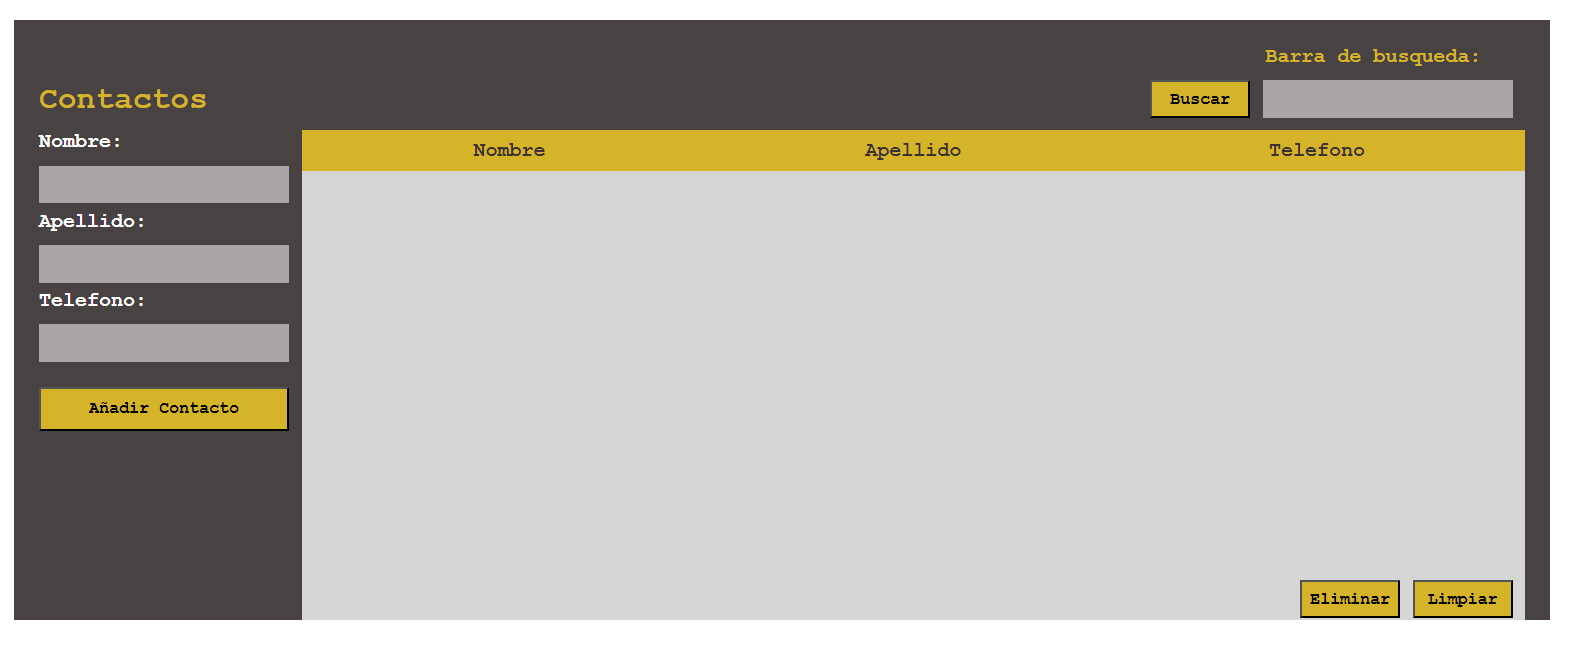
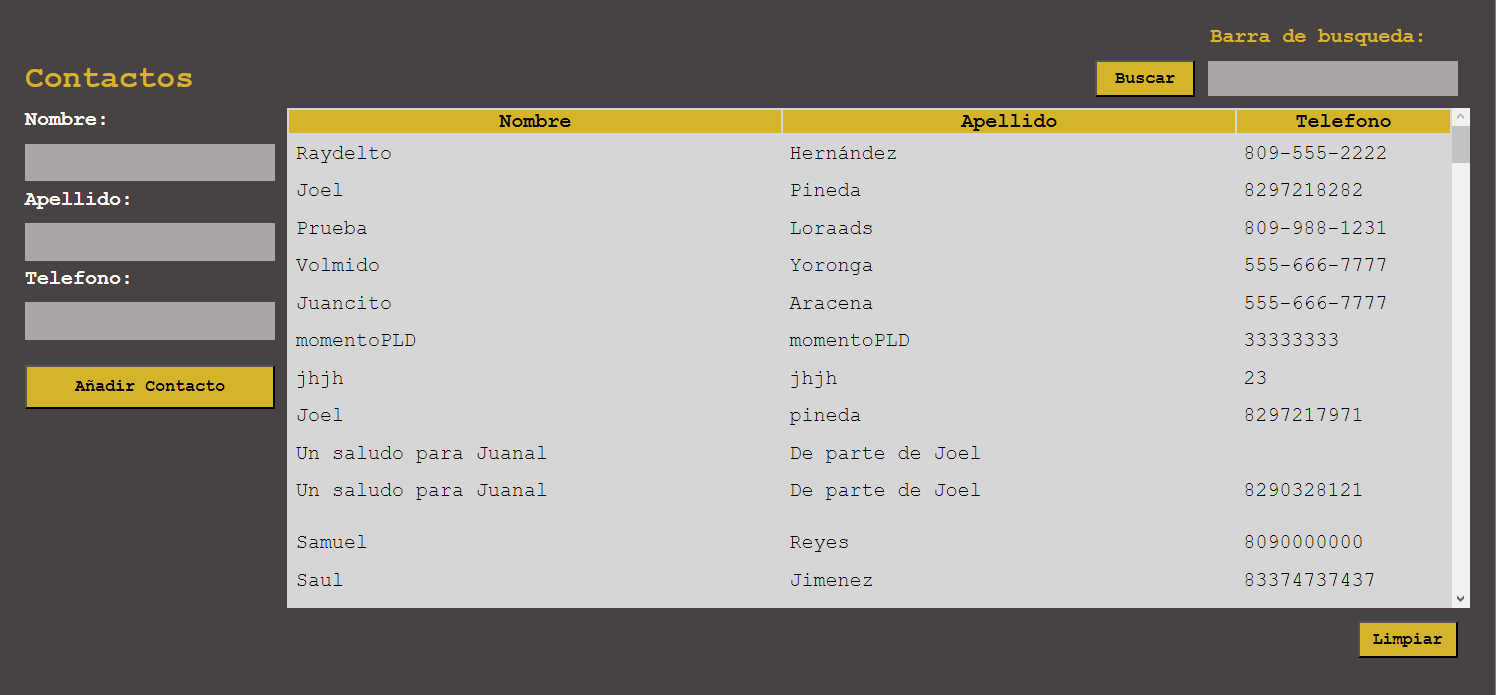
tercer commit agenda-contactos

diff --git a/script.js b/script.js
@@ -5,7 +5,12 @@ const inputLastName = document.getElementById("input_last_name");
 const inputPhone = document.getElementById("input_phone");
 const addButton = document.getElementById("add_contacts");
 const tableData = document.querySelector("#table_data");
-
+const table = document.getElementById("table_data")
+const tableRows = document.querySelectorAll(".general_row")
+const clearButton = document.getElementById("clear_inputs");
+const deleteButton = document.getElementById("delete_button");
+const searchButton = document.getElementById("search_button")
+const searchInput = document.getElementById("search_input");
 
 form.addEventListener("submit", function () {
     event.preventDefault();
@@ -19,7 +24,7 @@ function procesarRespuesta(contactos) {
     let i = 0
     while (i < contactos.length) {
         datos = contactos[i]
-        addContact(datos.nombre, datos.apellido, datos.telefono, id=i);
+        addContact(datos.nombre, datos.apellido, datos.telefono, id = i);
         i++
     }
 }
@@ -59,22 +64,21 @@ addButton.addEventListener("click", function () {
     }
 })
 
-function addContact(name, lastName, phone, id=null, tagClass= "general_row") {
+function addContact(name, lastName, phone, id = null, tagClass = "general_row") {
     const newRow = document.createElement("tr");
     const nameCell = document.createElement("td");
     const lastNameCell = document.createElement("td");
     const phoneCell = document.createElement("td");
 
-    if(!id){
-       const lastRow = tableData.rows[tableData.rows.length - 1]
-       const idLastRow = lastRow.getAttribute("id")?.split("-");
-       if(idLastRow?.length){
-        id = parseInt(idLastRow[1]) + 1
-       }
-       console.log(id)
+    if (!id) {
+        const lastRow = tableData.rows[tableData.rows.length - 1]
+        const idLastRow = lastRow.getAttribute("id")?.split("-");
+        if (idLastRow?.length) {
+            id = parseInt(idLastRow[1]) + 1
+        }
     }
 
-    newRow.setAttribute("id", `row-${id}`);    
+    newRow.setAttribute("id", `row-${id}`);
     newRow.classList.add(tagClass);
 
     nameCell.textContent = name;
@@ -90,6 +94,62 @@ function addContact(name, lastName, phone, id=null, tagClass= "general_row") {
     inputLastName.value = "";
     inputPhone.value = "";
 }
+
+clearButton.addEventListener("click", function () {
+    if (inputName.value !== "" && inputLastName.value !== "" && inputPhone.value !== "" && searchInput.value !== "") {
+        location.reload();
+    }
+    else if(inputName.value == "" && inputLastName.value == "" && inputPhone.value == "" && searchInput.value !== ""){
+        location.reload();
+    }
+    else{
+        inputName.value = "";
+        inputLastName.value = "";
+        inputPhone.value = "";
+    }
+})
+
+searchButton.addEventListener("click", function (event) {
+    let searchTerm = searchInput.value.toLowerCase().trim();
+    let exceptRows = [];
+    for (let i = 0; i < table.rows.length; i++) {
+        const cell = table.rows[i].cells[0];
+        const containCell = cell.textContent.toLowerCase();
+        if (searchTerm === containCell) {
+            exceptRows.push(table.rows[i]);
+        }
+    }
+    while (table.rows.length > 0) {
+        table.deleteRow(0);
+    }
+    for (let i = 0; i < exceptRows.length; i++) {
+        table.appendChild(exceptRows[i]);
+    }
+})
+
+
+tableData.addEventListener("click", function (event) {
+    const targetRow = event.target.closest(".general_row");
+    if (targetRow) {
+        const nameValue = targetRow.querySelector("td:first-child");
+        if (nameValue) {
+            const newName = nameValue.textContent;
+            inputName.value = newName
+        }
+
+        const lastNameValue = targetRow.querySelector("td:nth-child(2)");
+        if (lastNameValue) {
+            const newLastName = lastNameValue.textContent;
+            inputLastName.value = newLastName
+        }
+
+        const phoneValue = targetRow.querySelector("td:nth-child(3)");
+        if (phoneValue) {
+            const newPhone = phoneValue.textContent;
+            inputPhone.value = newPhone
+        }
+    }
+});
 
 
 function cargarContactos() {

diff --git a/index.html b/index.html
@@ -16,9 +16,9 @@
                 <h3>Contactos</h3>
             </div>
             <div class="busqueda">
-                <button>Buscar</button>
+                <button class="search_button" id="search_button">Buscar</button>
                 <div class="barra_busqueda">
-                    <input class="input_busqueda" type="text">
+                    <input class="input_busqueda" id="search_input" type="text">
                 </div>
             </div>
         </div>
@@ -49,15 +49,11 @@
                                     </th>
                                 </tr>
                             </thead>
-                            <tbody class="table_datos" id="table_datos">
-                                
-                            </tbody>
                         </table>
                     </div>
                 </div>
                 <div class="botones">
-                    <button class="edit_buttons">Eliminar</button>
-                    <button class="edit_buttons">Limpiar</button>
+                    <button class="edit_buttons" id="clear_inputs">Limpiar</button>
                 </div>
             </div>
         </div>
